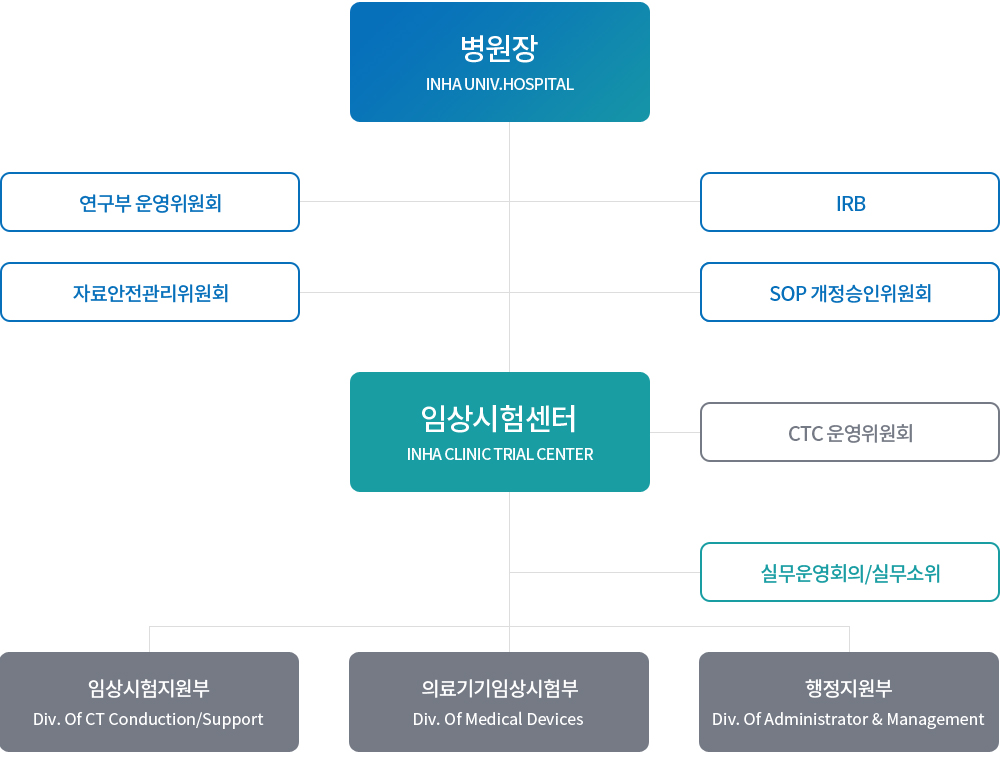
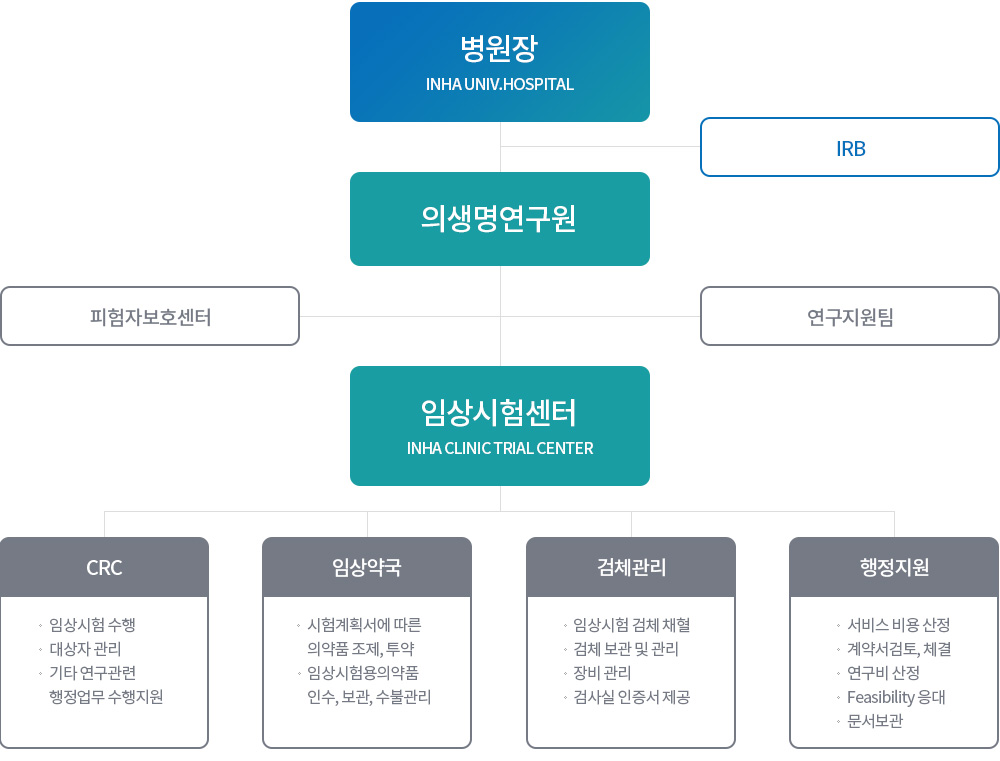
no message

diff --git a/css/common.css b/css/common.css
@@ -51,8 +51,8 @@
 .gnb-wrap{display:block; position: absolute;top: 0; right: 0;}
 .nav-wrap h1{padding-top: 24px; width:350px; }
 .nav-wrap h1 a{font-size: 18px; color:#0082b6; font-family: 'NotoKrM',sans-serif; font-weight: normal; display: block; padding-left: 180px; height: 43px;position: relative;padding-top: 11px;}
-.nav-wrap h1 a:before{content: '';display: block;width: 1px;height: 20px;background: #0082b6;position: absolute;top: 11px;left:163px;}
-.nav-wrap h1 a:after{content: '';display: block;width: 145px;height: 43px;background:url(../img/icon_header.png) left top no-repeat;position: absolute;top: 0px;left:0px;}
+.nav-wrap h1 a:after{content: '';display: block;width: 310px;height: 43px;background:url(../img/icon_header.png) left top no-repeat;position: absolute;top: 0px;left:0px;}
+
 .gnb li{float:left;color:#000;font-size:18px;font-family: 'NotoKrM',sans-serif;text-align: center;}
 .gnb li:first-child{margin-left:0;}
 .gnb li a{display:block;line-height:90px;height:90px;position:relative; width: 180px}
@@ -105,10 +105,10 @@
 .footer{background:#3d4044; position: relative;}
 .footer .top-btn{width: 60px; height:60px; background: url(../img/icon_header.png) 0 -100px no-repeat rgba( 61, 64, 68, 0.2 ); border-radius: 60px; position: absolute;top: -90px; right: 0; }
 .quicklink-wrap{background:#374257;width: 100%; }
-.quicklink{color:#fff;letter-spacing: -0.05em;border-left:1px solid #5f6879}
+.quicklink{color:#fff;letter-spacing: -0.05em;border-left:1px solid #5f6879; display: table;}
 .quicklink:after{content:'';display:block;clear:both;}
-.quicklink li{width:292.9px;border-right:1px solid #5f6879; display:inline-block;}
-.quicklink li a{display:block;height:50px;line-height:50px;position:relative; width: 292px; text-align: center;}
+.quicklink li{ border-right:1px solid #5f6879; display:table-cell; width: 236px;}
+.quicklink li a{display:block;height:50px;line-height:50px;position:relative; width: 100%; text-align: center;}
 
 .family-site{position: absolute;top: 20px; right: 0;}
 .family-site > a{ border:1px solid #34363a; width: 170px; height: 36px; line-height: 36px; background: transparent; color:#aaa; font-size: 13px; text-align: left; padding-left:10px ; letter-spacing: -1px;position:relative; display: block;}
@@ -765,12 +765,12 @@ ul.bxslider {  list-style: none;}
 .m-calender .m-calender-table td{font-size:18px; padding:20px; min-height:170px; vertical-align: top; border-bottom:1px solid #eee; border-left:1px solid #eee;font-family:'notoKrR';  position: relative;}
 .m-calender .m-calender-table th:first-child,.m-calender .m-calender-table td:first-child{border-left: 0px;}
 .m-calender .m-calender-table .day-out{font-family:'notoKrL'; color:#999}
-.m-calender .m-calender-table button{font-family:'notoKrL',sans-serif;font-size:14px; line-height:20px; padding-top:7px; text-align:left;}
+.m-calender .m-calender-table button{font-family:'notoKrL',sans-serif;font-size:14px; line-height:20px; padding-top:7px; text-align:left;display: block;}
 .m-calender .m-calender-table button:first-child{padding-top:20px;}
-.m-calender .m-calender-table button span{color: #777}
+.m-calender .m-calender-table button span{color: #777 }
 .m-calender .m-calender-table .m-calender-more{ color:#0770bb; text-decoration: underline}
 
-.m-calender-pop{position: absolute; right: 160px; top:-20px; min-width: 220px; background:#fff; padding: 10px 20px 20px 20px; border: 1px solid #ddd; box-shadow: 3px 3px 7px rgba(0,0,0,0.13);}
+.m-calender-pop{position: absolute; right: 160px; top:-20px; min-width: 220px; background:#fff; padding: 10px 20px 20px 20px; border: 1px solid #ddd; box-shadow: 3px 3px 7px rgba(0,0,0,0.13); z-index: 10;}
 .m-calender-pop .pop-list-wrap{position: relative;}
 .m-calender-pop .pop-list-wrap .pop-title{ border-bottom: 1px solid #eee; padding-bottom: 10px;margin-bottom: 5px;font-size:16px;}
 .m-calender-pop .pop-list-wrap button{display: block; color:#777}
@@ -808,3 +808,24 @@ ul.bxslider {  list-style: none;}
 .agree-text .text-style2:first-child + h2{margin-top: 30px}
 .agree-text ul + .text-style2 {margin-top: 15px}
 .agree-text p + ul {margin-top: 10px}
+/* 에디터 적용 */
+.edit-wrap {padding:20px }
+.edit-wrap h2 strong{margin: 20px 0 10px; display: block;}
+.edit-wrap img{display: block;margin:  10px 0; }
+.edit-wrap ul{text-align:left;}
+.edit-wrap ul > li{padding-left:10px;font-size:16px;position: relative;margin-bottom:7px; line-height: 16px}
+.edit-wrap ul > li:before{content:'';display:inline-block;position:absolute;left:0;top:8px;margin-top:-1px;;width:3px;height:3px;background: url('../img/icon_list.png') left top no-repeat}
+.edit-wrap ul li ul{text-align:left;margin-top:7px;padding-bottom:1px;}
+.edit-wrap ul li ul li{font-size:16px;position: relative;margin-bottom:6px;color:#777;}
+.edit-wrap ul li ul li ul li{font-size:14px; padding-left: 10px;}
+.edit-wrap ol, .edit-wrap ul{list-style-position: inside}
+.edit-wrap li{list-style-type: none !important}
+.edit-wrap ol.bullet li{list-style-type: decimal !important;}
+
+.edit-wrap .bullet li{padding-left:10px;font-size:16px;position: relative;margin-bottom:7px; line-height: 16px}
+.edit-wrap .bullet li:before{content:'';display:inline-block;position:absolute;left:0;top:8px;margin-top:-1px;;width:3px;height:3px;background: url('../img/icon_list.png') left top no-repeat}
+
+.edit-wrap table {border-collapse:collapse !important;  width: 100%; margin:  10px 0; }
+.edit-wrap table th{font-size: 16px; font-family: 'NotoKrR'; font-weight: normal; color: #000000 ; padding: 0;text-align:center; background-color: #f6f6f6; height: 70px; border-right: 0; border-left: 1px solid #eee; border-top: 1px solid #ddd; border-bottom: 1px solid #ddd;}
+.edit-wrap table th:first-child, .edit-wrap table td:first-child{ border-left: 0 }
+.edit-wrap table td{font-size: 16px; font-family: 'NotoKrL'; text-align: center; font-weight: normal; color: #777777;  padding: 0 20px ; border-right: 0; border-left: 1px solid #eee; border-bottom: 1px solid #eee; border-top: 0; background-color:#fff;  height: 60px;}

diff --git a/info/organization.html b/info/organization.html
@@ -8,36 +8,121 @@
     </div>
     <div class="contents">
         <div class="organization">
-            <table>
-                <caption>임상시험센터 조직도</caption>
-                <tbody>
-                    <tr>
-                        <td colspan="3">병원장</td>
-                    </tr>
-                     <tr>
-                        <td>연구부 운영위원회</td>
-                        <td colspan="2">IRB</td>
-                    </tr>
-                    <tr>
-                        <td>자료안전관리위원회</td>
-                        <td colspan="2">SOP 개정승인위원회</td>
-                    </tr>
-                    <tr>
-                        <td colspan="3">임상시험센터(INHA CLINIC TRIAL CENTER)</td>
-                    </tr>
-                    <tr>
-                        <td colspan="2">실무운영회의/실무소위</td>
-                        <td>CTC운영위원회</td>
-                    </tr>
-                    <tr>
-                        <td>임상시험지원부(Div. Of CT Conduction/Support), 의료기기임상시험부(Div. Of Medical Devices
-), 행정지원부(Div. Of Administrator &amp; Management )</td>
-                        <td></td>
-                        <td></td>
-                    </tr>
-                </tbody>
-            </table>
+            <div class="offscreen">
+                <h1>임상시험센터 조직도</h1>
+                <h2>병원장</h2>
+                <ul>
+                    <li>IRB</li>
+                    <li>의생명연구원</li>
+                    <li>
+                        <ul>
+                            <li>피험자보호센터</li>
+                            <li>연구지원팀</li>
+                        </ul>
+                    </li>
+                    <li>임상시험센터
+                        <ul>
+                            <li>CRC
+                                <ul>
+                                    <li>임상시험 수행</li>
+                                    <li>대상자 관리</li>
+                                    <li>기타 연구관련 행정업무 수행지원</li>
+                                </ul>
+                            </li>
+                            <li>임상약국
+                                <ul>
+                                    <li>시험계획서에 따른 의약품 조제, 투약</li>
+                                    <li></li>임상시험용의약품 인수, 보관, 수불관리</li>
+                        </ul>
+                    </li>
+                    <li>검체관리
+                        <ul>
+                            <li>임상시험 검체 채혈</li>
+                            <li>검체 보관 및 관리</li>
+                            <li>장비 관리</li>
+                            <li>검사실 인증서 제공</li>
+                        </ul>
+                    </li>
+                    <li>행정지원
+                        <ul>
+                            <li>서비스 비용 산정</li>
+                            <li>계약서검토, 체결</li>
+                            <li>연구비 산정</li>
+                            <li>Feasibility 응대</li>
+                            <li>문서보관</li>
+                        </ul>
+                    </li>
+                </ul>
+                </li>
+                </ul>
+            </div>
         </div>
+        <table class="table table-style1 marT50">
+            <thead>
+            <tr>
+                <th>담당업무</th>
+                <th>전화번호</th>
+                <th>이메일</th>
+            </tr>
+            </thead>
+            <tbody>
+            <tr>
+                <td>원무 접수/수납</td>
+                <td>032-890-1100</td>
+                <td>realesch@naver.com</td>
+            </tr>
+            <tr>
+                <td>Feasibility 응대</td>
+                <td>032-890-1106</td>
+                <td>contract@inhauh.com</td>
+            </tr>
+            <tr>
+                <td>임상시험 계약</td>
+                <td>032-890-1106</td>
+                <td>contract@inhauh.com</td>
+            </tr>
+            <tr>
+                <td>연구비 정산</td>
+                <td>032-890-1193, 1195</td>
+                <td>inhactc@inhauh.com</td>
+            </tr>
+            <tr>
+                <td>CRC 서비스</td>
+                <td>032-890-1108</td>
+                <td>vuggi@naver.com</td>
+            </tr>
+            <tr>
+                <td>임상시험 약국</td>
+                <td>032-890-1109</td>
+                <td>hklee0815@inhauh.com</td>
+            </tr>
+            <tr>
+                <td>채혈, 검체 관리 및 보관</td>
+                <td>032-890-1123</td>
+                <td>ap11021@inhauh.com</td>
+            </tr>
+            <tr>
+                <td>모니터실 예약</td>
+                <td>032-890-1100</td>
+                <td>realesch@naver.com</td>
+            </tr>
+            <tr>
+                <td>장기 문서 이관</td>
+                <td>032-890-1106</td>
+                <td>contract@inhauh.com</td>
+            </tr>
+            <tr>
+                <td>IRB 사무국</td>
+                <td>032-890-3691</td>
+                <td>irb@inhauh.com</td>
+            </tr>
+            <tr>
+                <td>HRPC / 종사자교육</td>
+                <td>032-890-1161</td>
+                <td>hrpc@inhauh.com</td>
+            </tr>
+            </tbody>
+        </table>
     </div>
 </section>
 <!-- //container -->

diff --git a/service/monitor_02.html b/service/monitor_02.html
@@ -23,10 +23,10 @@
                     <li>1. 현재일로부터 <span class="color-style1">30일 이내</span>만 예약이 가능합니다.</li>
                     <li>2. 예약이 취소될 경우에는 <span class="color-style1">필히 삭제</span>하여 다른 사람이 사용할 수 있도록 하여 주시기 바랍니다.</li>
                     <li>3. 모니터 방문 시 <span class="color-style1">[모니터실 이용 확인서]</span>에 반드시 서명을 부탁드립니다.</li>
-                    <li>4. 이용 시간은 <span class="color-style1">오전 9시부터 오후 5시까지</span>입니다. 오후 5시 30분까지는 정리를 완료하여 주시기 바랍니다.</li>
+                    <li>4. 이용 시간은 <span class="color-style1">오전 8시 30분부터 오후 5시 30분까지</span>입니다. 시간 내 사용 후 정리를 완료하여 주시기 바랍니다.</li>
                     <li>5. 예약 상황을 잘 지키지 않을 경우 불이익이 갈 수도 있으므로 반드시 사전에 확인하시고 예약 및 변경하시기 바랍니다.</li>
                     <li>6. 모니터실은 여러 사람이 이용하는 공간입니다. <span class="color-style1">깨끗하게 이용</span>하여 주시기를 부탁드립니다.</li>
-                    <li>7. <span class="color-style1">Audit / Inspection 예약</span>인 경우 032) 890-1100으로 전화주시기 바랍니다.</li>
+                    <li>7. 모니터실 1번 및 대회의실은 <span class="color-style1">Audit, Inspection, 개시모임</span> 등을 위한 공간입니다. </li>
                     <li>8. <span class="color-style1">방문당일 2인 이상 방문</span>을 원할 경우 032) 890-1100 으로 전화주시기 바랍니다.</li>
                 </ul>
             </div>

diff --git a/service/monitor_03.html b/service/monitor_03.html
@@ -23,10 +23,10 @@
                     <li>1. 현재일로부터 <span class="color-style1">30일 이내</span>만 예약이 가능합니다.</li>
                     <li>2. 예약이 취소될 경우에는 <span class="color-style1">필히 삭제</span>하여 다른 사람이 사용할 수 있도록 하여 주시기 바랍니다.</li>
                     <li>3. 모니터 방문 시 <span class="color-style1">[모니터실 이용 확인서]</span>에 반드시 서명을 부탁드립니다.</li>
-                    <li>4. 이용 시간은 <span class="color-style1">오전 9시부터 오후 5시까지</span>입니다. 오후 5시 30분까지는 정리를 완료하여 주시기 바랍니다.</li>
+                    <li>4. 이용 시간은 <span class="color-style1">오전 8시 30분부터 오후 5시 30분까지</span>입니다. 시간 내 사용 후 정리를 완료하여 주시기 바랍니다.</li>
                     <li>5. 예약 상황을 잘 지키지 않을 경우 불이익이 갈 수도 있으므로 반드시 사전에 확인하시고 예약 및 변경하시기 바랍니다.</li>
                     <li>6. 모니터실은 여러 사람이 이용하는 공간입니다. <span class="color-style1">깨끗하게 이용</span>하여 주시기를 부탁드립니다.</li>
-                    <li>7. <span class="color-style1">Audit / Inspection 예약</span>인 경우 032) 890-1100으로 전화주시기 바랍니다.</li>
+                    <li>7. 모니터실 1번 및 대회의실은 <span class="color-style1">Audit, Inspection, 개시모임</span> 등을 위한 공간입니다. </li>
                     <li>8. <span class="color-style1">방문당일 2인 이상 방문</span>을 원할 경우 032) 890-1100 으로 전화주시기 바랍니다.</li>
                 </ul>
             </div>

diff --git a/service/monitor_04.html b/service/monitor_04.html
@@ -23,10 +23,10 @@
                     <li>1. 현재일로부터 <span class="color-style1">30일 이내</span>만 예약이 가능합니다.</li>
                     <li>2. 예약이 취소될 경우에는 <span class="color-style1">필히 삭제</span>하여 다른 사람이 사용할 수 있도록 하여 주시기 바랍니다.</li>
                     <li>3. 모니터 방문 시 <span class="color-style1">[모니터실 이용 확인서]</span>에 반드시 서명을 부탁드립니다.</li>
-                    <li>4. 이용 시간은 <span class="color-style1">오전 9시부터 오후 5시까지</span>입니다. 오후 5시 30분까지는 정리를 완료하여 주시기 바랍니다.</li>
+                    <li>4. 이용 시간은 <span class="color-style1">오전 8시 30분부터 오후 5시 30분까지</span>입니다. 시간 내 사용 후 정리를 완료하여 주시기 바랍니다.</li>
                     <li>5. 예약 상황을 잘 지키지 않을 경우 불이익이 갈 수도 있으므로 반드시 사전에 확인하시고 예약 및 변경하시기 바랍니다.</li>
                     <li>6. 모니터실은 여러 사람이 이용하는 공간입니다. <span class="color-style1">깨끗하게 이용</span>하여 주시기를 부탁드립니다.</li>
-                    <li>7. <span class="color-style1">Audit / Inspection 예약</span>인 경우 032) 890-1100으로 전화주시기 바랍니다.</li>
+                    <li>7. 모니터실 1번 및 대회의실은 <span class="color-style1">Audit, Inspection, 개시모임</span> 등을 위한 공간입니다. </li>
                     <li>8. <span class="color-style1">방문당일 2인 이상 방문</span>을 원할 경우 032) 890-1100 으로 전화주시기 바랍니다.</li>
                 </ul>
             </div>

diff --git a/inc/footer.html b/inc/footer.html
@@ -6,10 +6,11 @@
 		<div class="common-layout">
 			<button class="top-btn"><span class="offscreen">맨위로</span></button>
 			<ul class="quicklink">
-				<li><a href="#" class="quick-3">E-IRB</a></li>
-				<li><a href="#" class="quick-4">종사자교육</a></li> 
-				<li><a href="#" class="quick-5">INHA-CRIMS</a></li>
-				<li><a href="#" class="quick-6">모니터실 예약</a></li>
+				<li><a href="#" class="quick-1">E-IRB</a></li>
+				<li><a href="#" class="quick-2">종사자교육</a></li> 
+				<li><a href="#" class="quick-3">INHA-CRIMS(내부)</a></li>
+				<li><a href="#" class="quick-4">INHA-CRIMS(외부)</a></li>
+				<li><a href="#" class="quick-5">모니터실 예약</a></li>
 			</ul>
 		</div>
 	</section>
@@ -22,7 +23,7 @@
 				<button type="button">이메일무단수집거부</button>
 				<button type="button">이용약관</button>
 			</div>			
-			<div class="family-site"><a href="javascript:;">관련서비스</a>	
+			<div class="family-site"><a href="javascript:;">관련사이트</a>	
 				<ul class="site-open">
 					<li><a href="#" target="_blank" title="새창으로 열림">국가임상시험사업단</a></li>
 					<li><a href="#" target="_blank" title="새창으로 열림">식품의약품안전처</a></li>

diff --git a/service/service_05.html b/service/service_05.html
@@ -42,7 +42,7 @@
                         <li>예금주: 인하대학교 의과대학 부속병원 / 은행명 및 계좌번호 : 하나은행 748-910004-35904</li>
                         <li>문서보관 박스크기 : 600*400*330 (5cm 두께 바인더 10개 들어감)</li>
                         <li>문서보관료 : 박스당 25,000원 / 월 (VAT 포함)
-                            <p class="text-style3">&lt;주의&gt; 문서보관료(박스당 2,5000원)에는 이미 VAT가 반영된 금액이므로
+                            <p class="text-style3">&lt;주의&gt; 문서보관료(박스당 25,000원)에는 이미 VAT가 반영된 금액이므로
                                 추가 VAT를 입금하지 않도록 주의하시기 바랍니다.</p>
                         </li>
                     </ul>

diff --git a/service/service_04.html b/service/service_04.html
@@ -61,7 +61,7 @@
                         <li>임상시험과제의 연구비 입금, 정산 등 연구비 관련 전반적인 서비스 지원</li>
                         <li>연구비 사용 및 연구비 관리 시스템 사용법 안내</li>
                         <li>세금계산서(영수용) 발행</li>
-                        <li>입금관련 정보 (입금계좌번호 : 748-910004-95904, 하나은행 [예금주 : 인하대학교의과대학부속병원])</li>
+                        <li>입금관련 정보 (입금계좌번호 : 748-910004-35904, 하나은행 [예금주 : 인하대학교의과대학부속병원])</li>
                     </ul>
                 </div>
             </div>

diff --git a/inc/header.html b/inc/header.html
@@ -35,8 +35,8 @@
 	<section class="nav-wrap">
 		<!-- 네비게이션 -->
 		<div class="common-layout">			
-			<h1><a href="#"><span class="offscreen">인하대병원</span>임상시험센터</a></h1>
-			<nav id="nav" class="nav">
+			<h1><a href="#"><span class="offscreen">인하대병원 임상시험센터</span></a></h1>			
+<nav id="nav" class="nav">
 				<div class="gnb-wrap">
 					<ul class="gnb" role="navigation" aria-label="메인">
 						<li><a href="#">센터소개</a></li>

diff --git a/service/service_01.html b/service/service_01.html
@@ -42,8 +42,8 @@
             <tbody>
                 <tr>
                     <td>임상시험센터 CRC매니저</td>
-                    <td>032-890-1106</td>
-                    <td>contract@inhauh.com</td>
+                    <td>032-890-1108</td>
+                    <td>vuggi@naver.com</td>
                     <td><a href="#" role="button" title="새창열기" class="file-link">첨부파일1</a></td>
                 </tr>
             </tbody>

diff --git a/service/monitor_01_layer.html b/service/monitor_01_layer.html
@@ -146,7 +146,7 @@
 <div id="layer-bg" class="active"></div>
 <div id="layer-box" role="dialog" aria-labelledby="layerpopup" class="active">
     <div>
-        <div class="layer-wrap rolling">
+        <div class="layer-wrap">
             <div class="layer-cont " style="z-index: 4">
                 <h3 class="title-style3">예약 상세</h3>
                 <table class="table table-type2 marT30">

diff --git a/inc/head.html b/inc/head.html
@@ -2,7 +2,7 @@
 <html lang="ko">
 <head>
 	<meta charset="UTF-8">
-	<meta name="viewport" content="width=device-width, initial-scale=1.0">
+	<meta name="viewport" content="width=1200px"/>
 	<meta http-equiv="X-UA-Compatible" content="ie=edge">
 	<link rel="stylesheet" href="../css/reset.css">
 	<link rel="stylesheet" href="../css/common.css">
